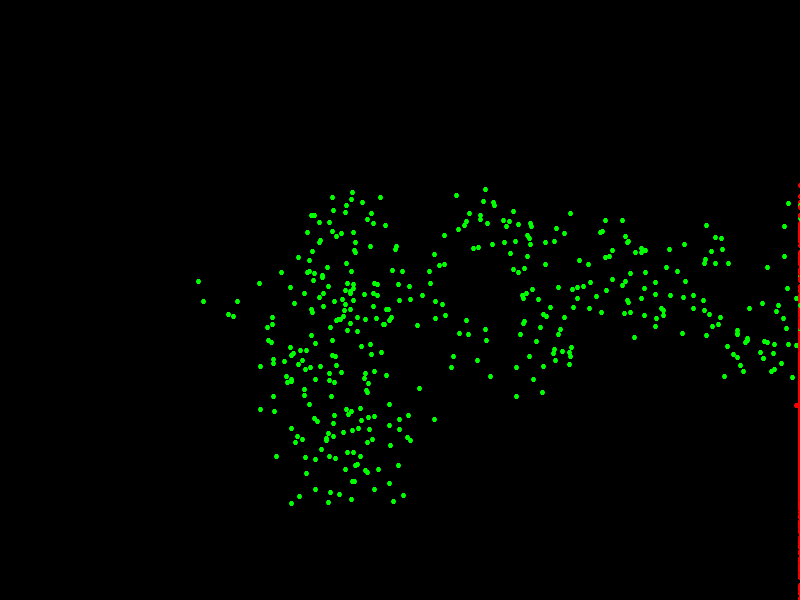
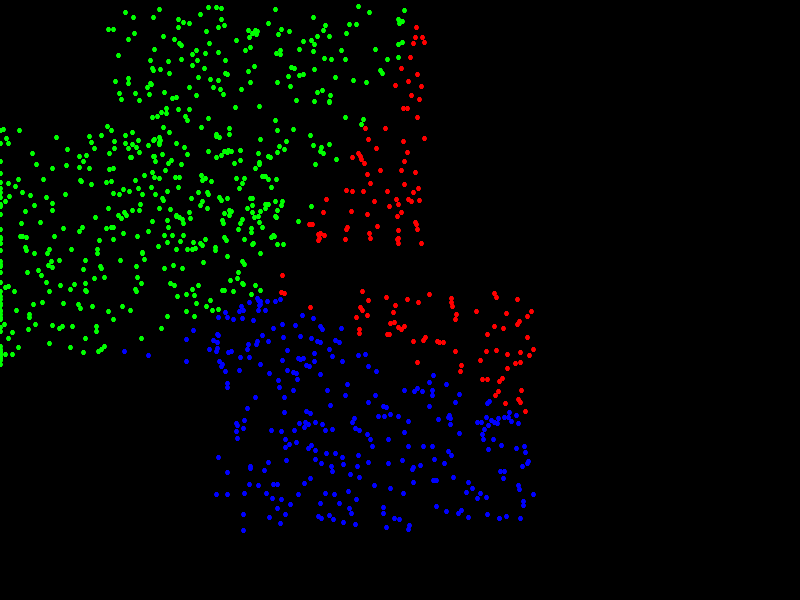
* split k_means into a lot of mods

diff --git a/src/k_means.rs b/src/k_means.rs
@@ -1,50 +1,13 @@
-// provides an implementation of `k_means` method of finding a fixed number of clusters for points on a plane
+pub mod test;
+#[allow(unused_imports)]
+pub use test::test;
+
 use std::{
-    iter::{repeat_n, repeat_with, successors},
+    iter::{repeat_n, repeat_with},
     mem::swap,
 };
 
-use plotters::{
-    chart::ChartBuilder,
-    prelude::{BitMapBackend, Circle, IntoDrawingArea},
-    style::{BLACK, Color, GREEN, RED},
-};
-use rand::{Rng as _, rng};
-
-use crate::{death::OrDie as _, vec2::Vec2};
-
-pub fn test() {
-    let blob_count = 2;
-    let radius = 500.0;
-    let delta_radius = 50.0;
-    let points = gen_data(blob_count, radius, delta_radius, DataKind::Worm);
-    let clusters = k_means(blob_count, &points, radius);
-    draw(points, clusters, radius);
-}
-
-fn draw(points: Vec<Point>, clusters: Vec<usize>, radius: f32) {
-    let root = BitMapBackend::new("clusters.png", (800, 600)).into_drawing_area();
-    root.fill(&BLACK).or_die();
-    let mut chart = ChartBuilder::on(&root)
-        .build_cartesian_2d(-radius..radius, -radius..radius)
-        .or_die();
-    chart
-        .configure_mesh()
-        .disable_x_mesh()
-        .disable_y_mesh()
-        .draw()
-        .or_die();
-    let colors = [GREEN.filled(), RED.filled()];
-    chart
-        .draw_series(
-            clusters
-                .into_iter()
-                .zip(points)
-                .map(|(i, p)| Circle::new(p.unwrap(), 2, colors[i])),
-        )
-        .or_die();
-    root.present().or_die();
-}
+use crate::{data::generate::point::random_point, vec2::Point};
 
 pub fn k_means(blob_count: usize, points: &Vec<Point>, radius: f32) -> Vec<usize> {
     KMeans::init(blob_count, points, radius).run()
@@ -132,64 +95,4 @@ impl<'a> KMeans<'a> {
         }
         res
     }
-}
-
-type Point = Vec2<f32>;
-
-#[allow(unused)]
-enum DataKind {
-    Blobs,
-    Uniform,
-    Worm,
-}
-
-fn gen_data(blob_count: usize, radius: f32, delta_radius: f32, kind: DataKind) -> Vec<Point> {
-    let point_count = 1000;
-    match kind {
-        DataKind::Blobs => gen_blobs(blob_count, point_count, radius, delta_radius),
-        DataKind::Uniform => make_uniform(point_count, radius),
-        DataKind::Worm => gen_worm(point_count, delta_radius),
-    }
-}
-
-fn gen_worm(point_count: usize, delta_radius: f32) -> Vec<Point> {
-    successors(Some(Point::new(0., 0.)), |p| Some(near(*p, delta_radius)))
-        .take(point_count)
-        .collect()
-}
-
-fn near(point: Point, radius: f32) -> Point {
-    let dx = random_delta(radius);
-    let dy = random_delta(radius);
-    point + Point::new(dx, dy)
-}
-
-fn make_uniform(point_count: usize, radius: f32) -> Vec<Point> {
-    repeat_with(|| random_point(radius))
-        .take(point_count)
-        .collect()
-}
-
-fn gen_blobs(blob_count: usize, point_count: usize, radius: f32, delta_radius: f32) -> Vec<Point> {
-    let centers: Vec<Point> = repeat_with(|| random_point(radius))
-        .take(blob_count)
-        .collect();
-    repeat_with(|| rng().random_range(0..blob_count))
-        .map(|i| {
-            let dx = random_delta(delta_radius);
-            let dy = random_delta(delta_radius);
-            Point::new(centers[i].x + dx, centers[i].y + dy)
-        })
-        .take(point_count)
-        .collect()
-}
-
-fn random_delta(radius: f32) -> f32 {
-    rng().random_range(-radius..=radius)
-}
-
-fn random_point(radius: f32) -> Point {
-    let x = random_delta(radius);
-    let y = random_delta(radius);
-    Point::new(x, y)
 }

diff --git a/src/data/draw/clusters.rs b/src/data/draw/clusters.rs
@@ -1,0 +1,31 @@
+use plotters::{
+    chart::ChartBuilder,
+    prelude::{BitMapBackend, Circle, IntoDrawingArea},
+    style::{BLACK, BLUE, Color, GREEN, RED},
+};
+
+use crate::{death::OrDie, vec2::Point};
+
+pub fn draw(points: Vec<Point>, clusters: Vec<usize>, radius: f32) {
+    let root = BitMapBackend::new("clusters.png", (800, 600)).into_drawing_area();
+    root.fill(&BLACK).or_die();
+    let mut chart = ChartBuilder::on(&root)
+        .build_cartesian_2d(-radius..radius, -radius..radius)
+        .or_die();
+    chart
+        .configure_mesh()
+        .disable_x_mesh()
+        .disable_y_mesh()
+        .draw()
+        .or_die();
+    let colors = [GREEN.filled(), RED.filled(), BLUE.filled()];
+    chart
+        .draw_series(
+            clusters
+                .into_iter()
+                .zip(points)
+                .map(|(i, p)| Circle::new(p.unwrap(), 2, colors[i])),
+        )
+        .or_die();
+    root.present().or_die();
+}

diff --git a/src/data/generate/blobs.rs b/src/data/generate/blobs.rs
@@ -1,0 +1,22 @@
+use std::iter::repeat_with;
+
+use rand::{Rng, rng};
+
+use crate::{
+    data::generate::{delta::random_delta, point::random_point},
+    vec2::Point,
+};
+
+pub fn blobs(blob_count: usize, point_count: usize, radius: f32, delta_radius: f32) -> Vec<Point> {
+    let centers: Vec<Point> = repeat_with(|| random_point(radius))
+        .take(blob_count)
+        .collect();
+    repeat_with(|| rng().random_range(0..blob_count))
+        .map(|i| {
+            let dx = random_delta(delta_radius);
+            let dy = random_delta(delta_radius);
+            Point::new(centers[i].x + dx, centers[i].y + dy)
+        })
+        .take(point_count)
+        .collect()
+}

diff --git a/src/k_means/test/data.rs b/src/k_means/test/data.rs
@@ -1,0 +1,20 @@
+use crate::{
+    data::generate::{blobs, uniform, worm},
+    vec2::Point,
+};
+
+pub fn generate(blob_count: usize, radius: f32, kind: Kind) -> Vec<Point> {
+    let point_count = 1000;
+    let delta_radius = 200.0;
+    match kind {
+        Kind::Blobs => blobs(blob_count, point_count, radius, delta_radius),
+        Kind::Uniform => uniform(point_count, radius),
+        Kind::Worm => worm(point_count, delta_radius),
+    }
+}
+
+pub enum Kind {
+    Blobs,
+    Uniform,
+    Worm,
+}

diff --git a/src/k_means/test.rs b/src/k_means/test.rs
@@ -1,0 +1,17 @@
+use crate::{
+    data::draw::clusters::draw,
+    k_means::{
+        k_means,
+        test::data::{Kind, generate},
+    },
+};
+
+mod data;
+
+pub fn test() {
+    let blob_count = 3;
+    let radius = 500.0;
+    let points = generate(blob_count, radius, Kind::Blobs);
+    let clusters = k_means(blob_count, &points, radius);
+    draw(points, clusters, radius);
+}

diff --git a/src/link/program.rs b/src/link/program.rs
@@ -1,11 +1,19 @@
+use std::collections::HashMap;
+
+use crate::link::ast::fun::Fun;
+
 pub mod analyse;
 
 pub struct Program<'a> {
     name: &'a str,
+    funs: HashMap<&'a str, Fun>,
 }
 
 impl<'a> Program<'a> {
     pub fn empty(name: &'a str) -> Self {
-        Self { name }
+        Self {
+            name,
+            funs: HashMap::new(),
+        }
     }
 }

diff --git a/src/source/parser/common/expect.rs b/src/source/parser/common/expect.rs
@@ -3,7 +3,7 @@ use crate::source::parser::Parser;
 impl<'a> Parser<'a> {
     pub fn expect(&mut self, s: &'static str) -> Result<(), ()> {
         self.skip_spaces();
-        if self.source.code.starts_with(s) {
+        if self.source.code[self.cursor..].starts_with(s) {
             self.cursor += s.len();
             Ok(())
         } else {

diff --git a/src/data/generate/worm.rs b/src/data/generate/worm.rs
@@ -1,0 +1,9 @@
+use std::iter::successors;
+
+use crate::{data::generate::point::near, vec2::Point};
+
+pub fn worm(point_count: usize, delta_radius: f32) -> Vec<Point> {
+    successors(Some(Point::new(0., 0.)), |p| Some(near(*p, delta_radius)))
+        .take(point_count)
+        .collect()
+}

diff --git a/src/link/program/analyse/main.rs b/src/link/program/analyse/main.rs
@@ -6,8 +6,9 @@ use crate::{
 };
 
 pub fn check_main(program: Program) {
-    let _ = program;
-    die(NoMain {
-        src_name: program.name,
-    })
+    if !program.funs.contains_key("name") {
+        die(NoMain {
+            src_name: program.name,
+        })
+    }
 }

diff --git a/src/data/generate/uniform.rs b/src/data/generate/uniform.rs
@@ -1,0 +1,9 @@
+use std::iter::repeat_with;
+
+use crate::{data::generate::point::random_point, vec2::Point};
+
+pub fn uniform(point_count: usize, radius: f32) -> Vec<Point> {
+    repeat_with(|| random_point(radius))
+        .take(point_count)
+        .collect()
+}

diff --git a/src/data/generate/point.rs b/src/data/generate/point.rs
@@ -1,0 +1,10 @@
+pub mod near;
+pub use near::near;
+
+use crate::{data::generate::delta::random_delta, vec2::Point};
+
+pub fn random_point(radius: f32) -> Point {
+    let x = random_delta(radius);
+    let y = random_delta(radius);
+    Point::new(x, y)
+}

diff --git a/src/data/generate/point/near.rs b/src/data/generate/point/near.rs
@@ -1,0 +1,7 @@
+use crate::{data::generate::delta::random_delta, vec2::Point};
+
+pub fn near(point: Point, radius: f32) -> Point {
+    let dx = random_delta(radius);
+    let dy = random_delta(radius);
+    point + Point::new(dx, dy)
+}
